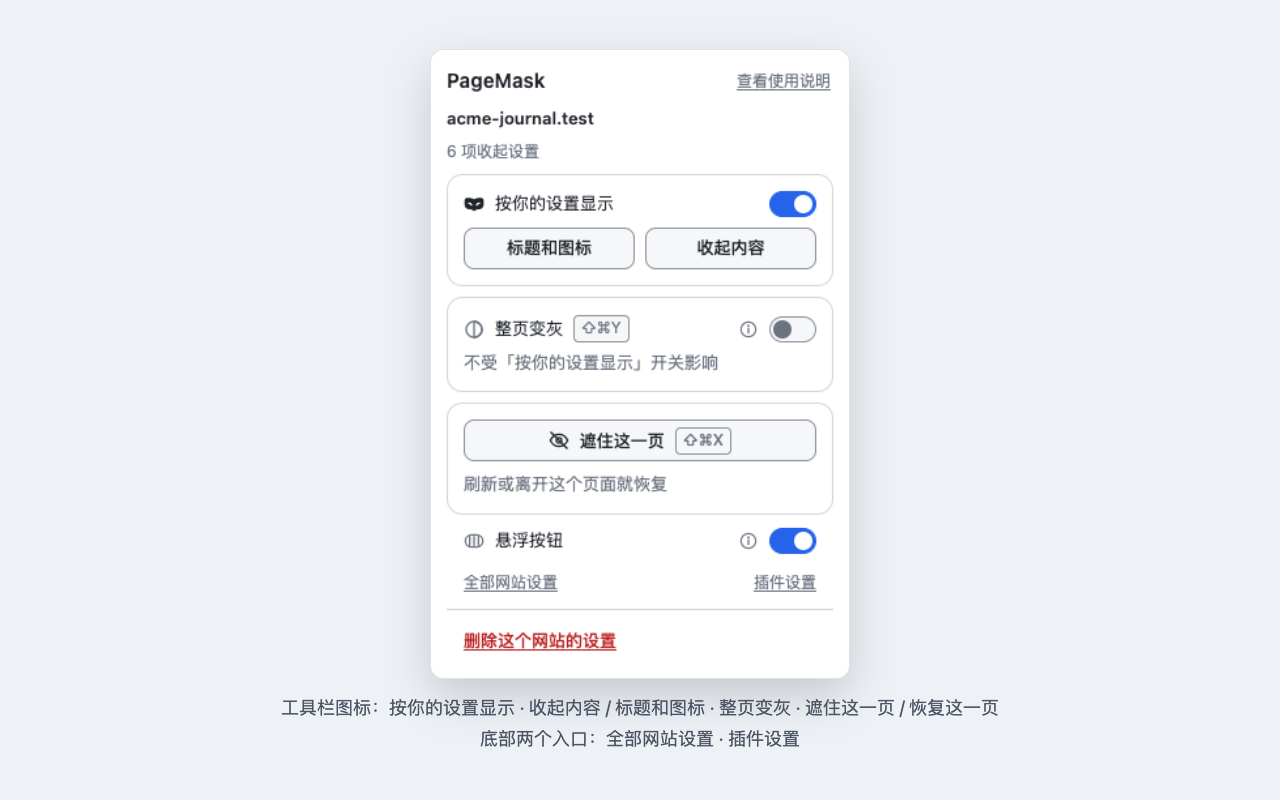
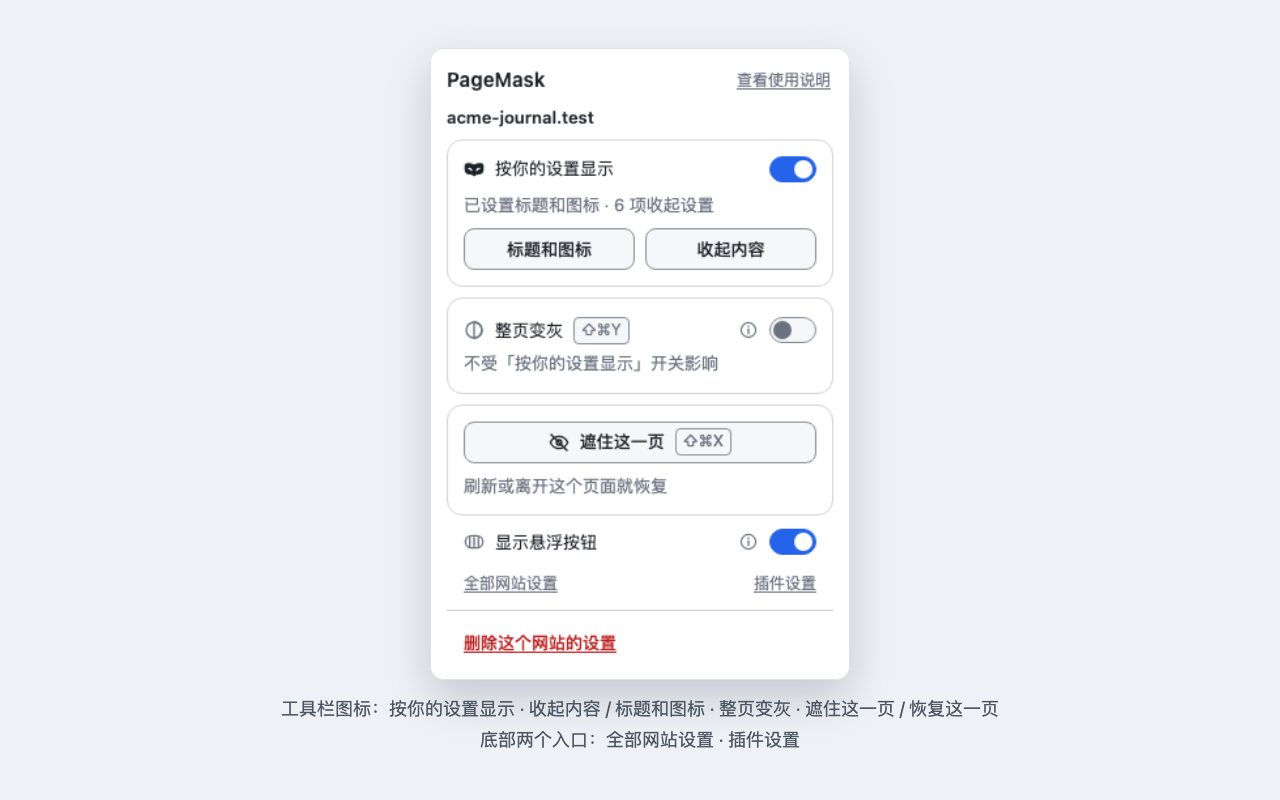
docs(release): 升 1.0.10 并同步对外材料（#253）
- CHANGELOG 中英条目：文案与交互全量收口、对外材料审查、门禁结果
- README：安装改为 Releases zip 优先（未上架时不用编译），已知限制改白话，商店状态如实写
- 落地页：安装说明如实写「还没上架」；更新日志页重新生成
- 商店材料：详细描述去掉内部叫法「幕布」、英文补「快捷键」；版本口径 / 版本历史 / 测试计数同步 1.0.10；截图 4 按 1.0.10 构建重拍
- DEVLOG 记录本轮取舍：注释修复不发版 vs 界面文案变化发版

验证：compile、897 单测、十二脚本 E2E、check:docs / check:package 全过

diff --git a/CHANGELOG.md b/CHANGELOG.md
@@ -5,6 +5,56 @@
 This file follows [Keep a Changelog](https://keepachangelog.com/en/1.1.0/) and [Semantic Versioning](https://semver.org/).
 Under each version, the Chinese and English sections correspond item by item.
 
+## [1.0.10] - 2026-11-18
+
+界面文案与交互的全量收口（#252），以及随版本发布的对外材料审查（#253）。功能与权限集合不变。
+
+### 中文
+
+#### 改动
+
+- **弹窗与站点设置页改为「配置摘要」（#252）**：开关下面那行现在把开关管的三样一起说——「已设置标题和图标 · 6 项收起设置」。只改过标题的网站也会如实写「已设置标题和图标」；三样都没设置时，整行换成「还没有设置标题、图标和收起内容，打开后页面不变」，不再只有一句「打开后页面不变」让人猜原因。待授权时摘要临时回到站名下面（面具卡还没出现）
+- **设置页保存后不再静默（#252，ADR-0021）**：在站点设置页改过标题或图标、而「按你的设置显示」关着时，卡内当场问「已保存；「按你的设置显示」还关着，现在打开吗？」，给「先保持原样 / 现在打开」两个出口；不弹窗、不挡继续编辑。弹窗进入的单步表单仍是「编辑 → 保存 / 退出」，两套保存模型各自保留
+- **向导退出提示按流程说后果（#252）**：「收起内容」流程说「页面回到上次保存的收起设置」；「标题和图标」流程说「标签页回到上次保存的标题和图标」。原来两条都提标签页标题，而标题流程并没有动页面
+- **死路都补下一步（#252）**：未设置站点提示补「从下面任选一项开始」；受限页面与快捷键被挡的每条原因补「换一个普通网页再试」（本地文件是「打开网上的页面再试」）；导入文件不对补「请换一个文件再试」；删除站点 / 恢复内容确认框写明「删掉后不能撤销」，可重设的标题和图标恢复不写
+- **导入空文件不再自相矛盾（#252）**：合法但没有网站设置的文件，原来被说成「不是 PageMask 导出的设置文件」；现在是独立一句「这个文件里没有能导入的网站设置，本机的数据没有改动，请换一个文件再试」
+- **首次引导（#252）**：第 3 步一大段拆成一句说明 + 三条要点；「跳过引导」从说明文字中间挪到右上角、与标题同基线
+- **用词统一（#252）**：标签页「名字 / 样子」回到「标签页标题」；「网站本来」改「网站原来」；悬浮按钮开关标签写「显示悬浮按钮」；标题与图标卡的条件句同构
+
+#### 文档与商店材料
+
+- **README 中英（#253）**：安装改为先装 Releases 的 zip（商店未上架时不用编译），源码构建归到开发者；已知限制改用「嵌在页面里的另一层页面 / 组件内部区域」的白话
+- **落地页（#253）**：安装说明如实写「还没上架」；更新日志页从本文件重新生成
+- **商店材料（#253）**：详细描述去掉内部叫法「幕布」，直接写「遮住这一页」；英文侧补齐漏掉的「快捷键」；版本口径与版本历史同步 1.0.10，截图 4 按 1.0.10 构建重拍（配置摘要入图，开关名改为「显示悬浮按钮」）
+
+#### 面向审阅者
+
+- 功能与权限集合与 1.0.9 完全一致（`storage` / `scripting` / `activeTab` + 按站点可选主机权限），安装时不授予任何站点；本轮只改界面文案、提示位置与两处问答流程
+- 门禁：编译、单测 897 项（58 文件）、E2E 十二脚本全绿（1.0.10 构建实测）、`check:docs` / `check:package` 通过
+
+### English
+
+#### Changes
+
+- **The popup and the site settings page now show a settings summary (#252)**: the line under the main switch names everything the switch controls — "Title & icon set · 6 items set to hide". A site with only a title now says "Title & icon set" instead of "Nothing set to hide"; when none of the three is set, the line becomes "No title, icon or hidden items yet — the page stays as it is", so the result is no longer left without a reason. While access is pending, the summary temporarily sits under the site name (the mask card isn't drawn yet)
+- **Saving on the settings page no longer falls silent (#252, ADR-0021)**: after a title or icon is saved while "Show this site your way" is off, the card asks "Saved. The switch is still off — turn it on now?" with "Keep as is" / "Turn on now". No modal, and editing continues freely. The single-step form opened from the popup keeps edit → save / exit; both save models remain
+- **The wizard's exit message now states what each flow restores (#252)**: the hide-items flow says "the page returns to the last saved hidden items"; the title-and-icon flow says "the tab returns to the last saved title and icon". Both used to mention the tab title, even though the title flow never touched the page
+- **Dead ends now say what to do next (#252)**: the unconfigured-site hint adds "start with either option below"; every limited-page reason and every blocked-shortcut notice adds "Try a normal web page" (local files say "Open a page on the web instead"); import errors add "Choose another file"; the delete-site and restore-content dialogs state "This can't be undone", while the redoable title/icon restore does not
+- **An empty but valid import no longer contradicts itself (#252)**: a file with no site settings used to be reported as "not a settings file exported by PageMask"; it now has its own message — "This file has no site settings to import, so nothing on this computer was changed. Choose another file"
+- **Onboarding (#252)**: step 3's wall of text is now one sentence plus three bullet points; "Skip" moved from the middle of the description to the top right, on the title's baseline
+- **Wording unified (#252)**: "name / look" of a tab is back to "tab title"; "originally" replaces "actually" for the site's own title; the floating-button switch reads "Show floating button"; the two condition sentences in the title and icon card share one pattern
+
+#### Docs and store listing
+
+- **README, both languages (#253)**: install now starts with the Releases zip (no build needed while the store listing is pending), with the source build under developers; known limitations use plain words ("an embedded page / a widget's internal area")
+- **Landing page (#253)**: the install note now says the store version isn't live yet; the changelog page is regenerated from this file
+- **Store listing (#253)**: the detailed description drops the internal name "Curtain" and says "Cover this page"; the English side now lists shortcuts too; version references and the version history are on 1.0.10, and screenshot 4 is re-shot on the 1.0.10 build (the summary is now in the picture, and the switch reads "Show floating button")
+
+#### For reviewers
+
+- Features and the permission set are identical to 1.0.9 (`storage` / `scripting` / `activeTab` + optional per-site host permissions); nothing is granted at install time. This round changes interface copy, hint placement and two question-and-answer flows only
+- Gates: compile, 897 unit tests (58 files), all twelve E2E scripts green (measured on the 1.0.10 build), `check:docs` / `check:package` pass
+
 ## [1.0.9] - 2026-11-18
 
 第九轮对抗扫发现的两处小修正。功能与权限集合不变。
@@ -1912,6 +1962,7 @@ First review round (installed build: reviewed on the reviewer's machine, never p
 [0.9.5]: https://github.com/cherishfall/page-mask/compare/v0.9.4...v0.9.5
 [0.9.6]: https://github.com/cherishfall/page-mask/compare/v0.9.5...v0.9.6
 [0.9.7]: https://github.com/cherishfall/page-mask/compare/v0.9.6...v0.9.7
+[1.0.10]: https://github.com/cherishfall/page-mask/compare/v1.0.9...v1.0.10
 [1.0.9]: https://github.com/cherishfall/page-mask/compare/v1.0.8...v1.0.9
 [1.0.8]: https://github.com/cherishfall/page-mask/compare/v1.0.7...v1.0.8
 [1.0.7]: https://github.com/cherishfall/page-mask/compare/v1.0.6...v1.0.7

diff --git a/README.md b/README.md
@@ -31,15 +31,17 @@
 
 ### 已知限制
 
-- 不支持 `chrome://` 内部页、本地文件与 Chrome 商店页面；iframe 与 shadow DOM **内部**的元素暂不可选（外层容器可以）
+- 不支持 `chrome://` 内部页、本地文件与 Chrome 商店页面；网页里嵌入的另一层页面（iframe）和组件内部区域（shadow DOM）暂时点不了，外层容器可以
 - 「整页变灰」只是去色（不省流量、不代替广告拦截）；「遮住这一页」只挡眼睛不挡输入
 
 ### 安装
 
-商店版本审核中，通过后这里会补上安装链接。源码安装需 Chrome 116+：
+Chrome 应用商店还没上架。现在可以直接装 Releases 里的 zip，不用编译（需要 Chrome 116 或更高）：
 
-1. 克隆本仓库 → `npm ci && npm run build`
-2. 打开 `chrome://extensions` → 开启「开发者模式」→「加载已解压的扩展程序」→ 选择 `.output/chrome-mv3`
+1. 到 [Releases](https://github.com/cherishfall/page-mask/releases/latest) 下载最新的 `page-mask-*-chrome.zip`，解压到一个固定的空文件夹（升级时覆盖同一个文件夹）
+2. 打开 `chrome://extensions` → 开启「开发者模式」→「加载已解压的扩展程序」→ 选择解压出来的文件夹
+
+从源码构建：`npm ci && npm run build`（Node ≥ 22.13），然后在上一步选择 `.output/chrome-mv3`。
 
 **升级**：覆盖到同一目录后到 `chrome://extensions` 点刷新，设置不丢（换文件夹 = 换身份 = 清空，所有扩展都这样）。
 
@@ -95,15 +97,17 @@ Details, usage and FAQ live on the [landing page](https://cherishfall.github.io/
 
 ### Known limitations
 
-- Not supported: `chrome://` pages, local files, the Chrome Web Store; elements **inside** iframes and shadow DOM can't be picked yet (their containers can)
+- Not supported: `chrome://` pages, local files, the Chrome Web Store; elements **inside** an embedded page (iframe) or a widget's internal area (shadow DOM) can't be picked yet — their containers can
 - Whole-page gray only removes color (no data saved, not an ad blocker); the cover blinds but doesn't block input
 
 ### Install
 
-The store listing is under review; a store link will appear here once it passes. Building from source needs Chrome 116+:
+The Chrome Web Store listing isn't live yet. For now, install the zip from Releases — no build step (Chrome 116 or later):
 
-1. Clone this repo → `npm ci && npm run build`
-2. Open `chrome://extensions` → enable Developer mode → **Load unpacked** → select `.output/chrome-mv3`
+1. Download the latest `page-mask-*-chrome.zip` from [Releases](https://github.com/cherishfall/page-mask/releases/latest) and unzip it into a fixed, empty folder (overwrite that same folder for upgrades)
+2. Open `chrome://extensions` → enable Developer mode → **Load unpacked** → select the unzipped folder
+
+Building from source: `npm ci && npm run build` (Node ≥ 22.13), then select `.output/chrome-mv3` in step 2.
 
 **Upgrading**: overwrite the same folder and hit reload on `chrome://extensions` — settings survive (a new folder means a new identity and a clean slate; that's true for every extension).
 

diff --git a/docs/dev/DEVLOG.md b/docs/dev/DEVLOG.md
@@ -2,6 +2,16 @@
 
 按时间倒序记录开发过程中的关键事件、超出 `docs/design.md` 范围的临时决策及其理由。正式的架构决策写 `docs/adr/`，这里只记过程。
 
+## 1.0.10（2026-11-18）：文案与交互全量收口 + 对外材料审查
+
+用户对 1.0.9 的主要不满集中在文案、提示语与不统一的交互，拍板全量收口。本轮先做界面（#252），再用同一套原则审对外材料（#253）。注意：第十轮终验原定「注释修复不发新版本号」，本轮因界面文案实际变化而升 1.0.10，与当时的判断不冲突。
+
+- **配置摘要（#252）**：弹窗面具卡与站点设置页页头共用 `hasTitleIcon` / `hasSwitchEffect`（`core/site-state.ts`），摘要把开关管的三样一起报；三样全空用完整说明，摘掉重复的「还没有收起设置」。依据 Material 3 supporting text、Apple HIG 分组脚注、格式塔邻近。
+- **两套保存模型并存（ADR-0021）**：设置页自动保存后，开关关着时卡内问「现在打开吗」；不弹窗、不挡编辑。弹窗单步表单保持编辑 → 保存 / 退出。
+- **死路补下一步**：未设置站点、受限页面、快捷键被挡、导入错误、删除 / 恢复确认；守门 `tests/copy-guidance.test.ts`。
+- **对外材料（#253）**：README 安装改为 Releases zip 优先（商店未上架时不用编译）；落地页安装状态如实写；商店描述去掉内部叫法「幕布」；截图 4 按 1.0.10 构建重拍。
+- **门禁**：compile、单测 897 项（58 文件）、E2E 十二脚本（1.0.10 构建实测）、check:docs / check:package 全绿。
+
 ## 第十轮终验（2026-11-18）：循环收敛，零开放发现，停
 
 聚焦验证 #249/#250 + 三版累计（fc1c776..69c0df6，27 文件）整体核对 + 发版面核对。唯一发现是 draft-tracker 三处同义注释漏改（#251，低，纯注释），已修——**该修复不改变包内容（注释在压缩产物中被剥离，产物与 1.0.9 逐字节相同），故不发新版本号**：发版的语义是包内容变化，字节级相同的 1.0.10 会污染版本历史。其余全绿：#249 的「重启后旧键必不可能复活」论断经会话恢复场景核实成立（恢复标签页是新文档新 documentId，组合键不可能匹配）；三版累计无调用点遗漏、无导出悬空、无注释漂移（#251 修后）；门禁 compile / 881 单测 / check:docs / check:package 全过；tag v1.0.9、Release 资产、CHANGELOG 三条 compare 链接、商店材料版本口径全部一致。
